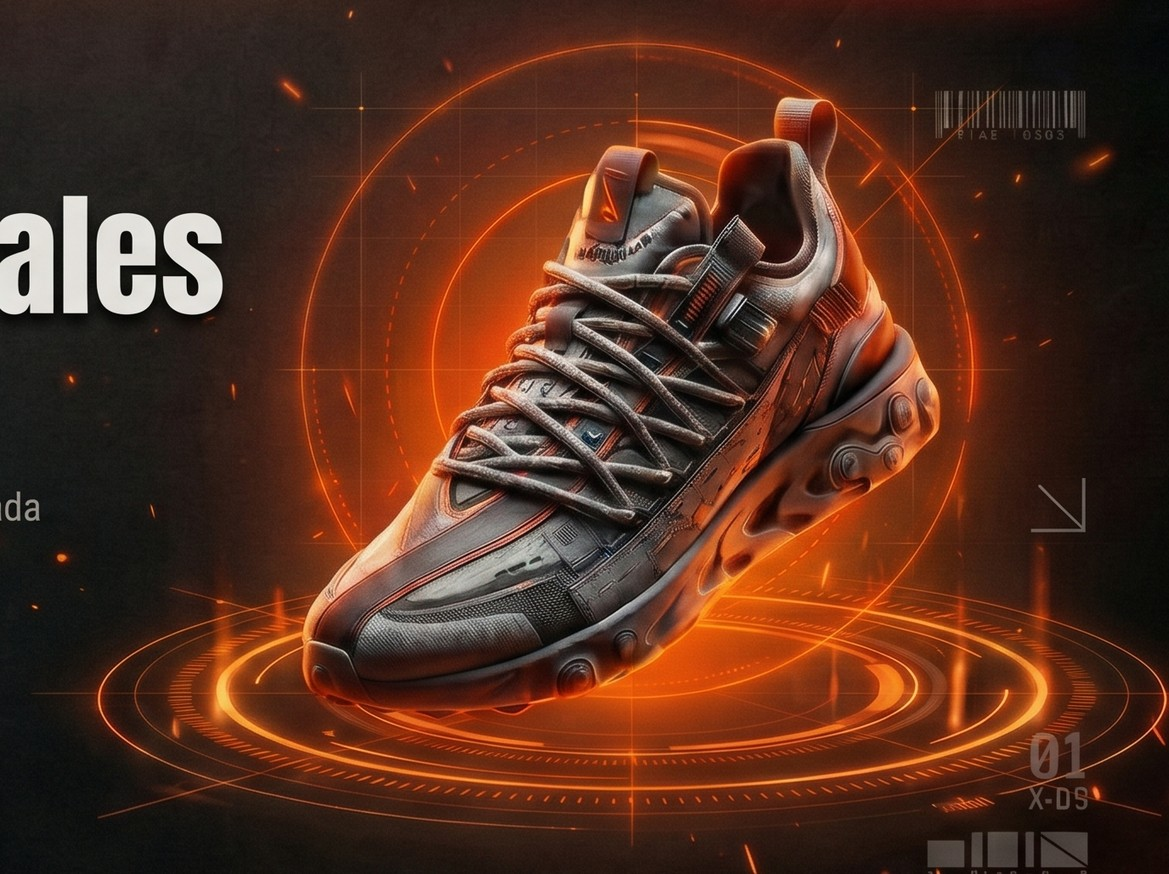
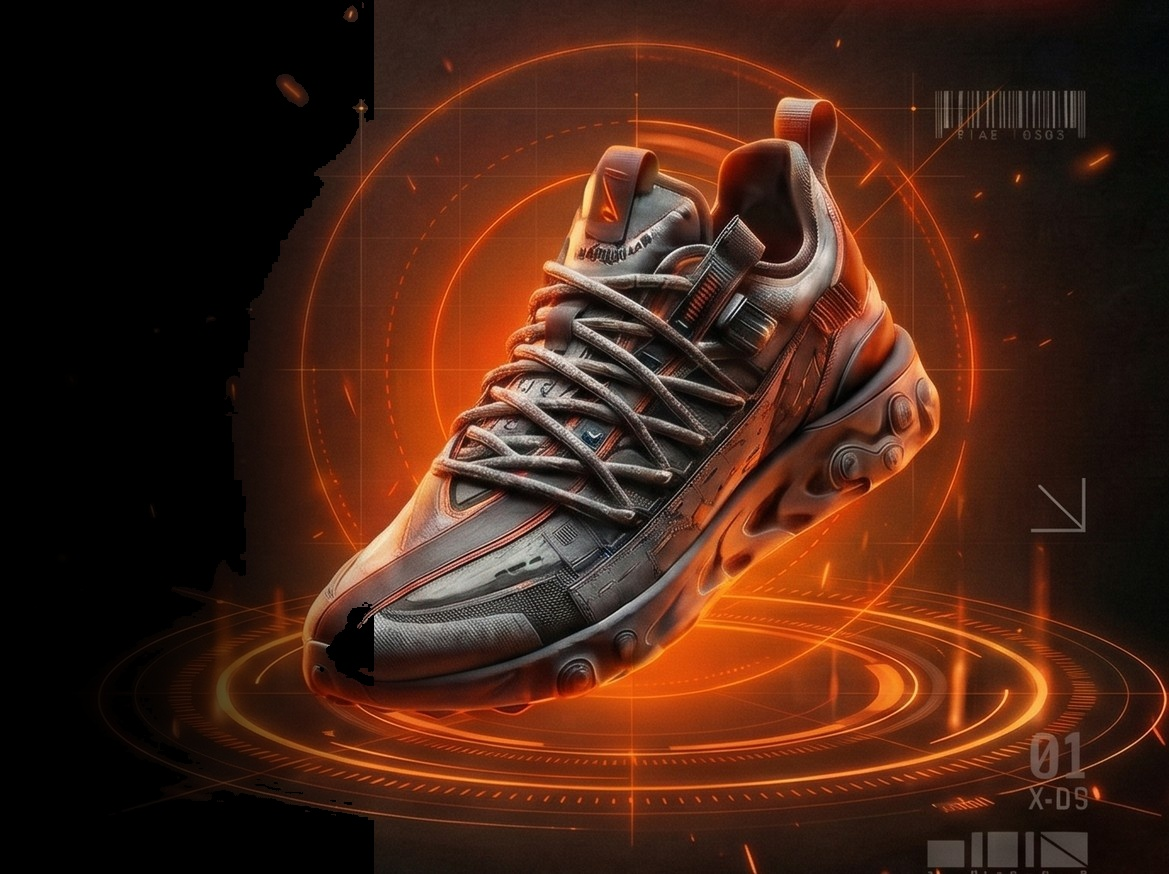
fix: corregir superposicion de header y calibrar fidelidad visual del hero

Changed region(s): [[0.0, 0.0, 0.3388, 1.0], [0.0, 0.6796, 0.0616, 0.7105]]

diff --git a/web/src/components/AboutSection.tsx b/web/src/components/AboutSection.tsx
@@ -1,7 +1,6 @@
 'use client';
 
 import React from 'react';
-import Image from 'next/image';
 
 interface AboutSectionProps {
   onExploreClick?: () => void;
@@ -11,10 +10,10 @@ interface AboutSectionProps {
 
 export const AboutSection: React.FC<AboutSectionProps> = ({
   onExploreClick,
-  totalProductos = 1897,
+  totalProductos = 1872,
 }) => {
   return (
-    <section className="hero-viewport relative select-none">
+    <section className="hero-viewport relative select-none h-screen min-h-[660px] max-h-[1080px] flex flex-col justify-between overflow-hidden p-[3.2vh_4vw] lg:p-[3.6vh_5.5vw]">
       {/* Bordes incandescentes */}
       <div className="left-burn-edge" aria-hidden="true" />
       <div className="right-burn-edge" aria-hidden="true" />
@@ -87,23 +86,21 @@ export const AboutSection: React.FC<AboutSectionProps> = ({
       </div>
 
       {/* Barra Superior con Insignia Metálica */}
-      <header className="relative z-10 flex flex-wrap items-center justify-between w-full px-2 sm:px-6 gap-4">
+      <header className="relative z-10 flex items-center justify-between w-full px-1 sm:px-4">
         {/* Insignia metálica LLANTITA */}
         <div className="brand-badge">
           <div className="cat-shield-wrapper">
-            <img src="/logo.jpg" alt="Escudo Gato Llantita" />
+            <img src="/cat-shield.jpg" alt="Escudo Gato Llantita" />
           </div>
           <span className="brand-title">LLANTITA</span>
-          <span className="rivet tl" />
           <span className="rivet tr" />
           <span className="rivet br" />
-          <span className="rivet bl" />
         </div>
 
         {/* Acciones superiores */}
         <div className="flex items-center gap-3 sm:gap-4">
           <div className="status-pill font-barlow tracking-wider">
-            {totalProductos > 0 ? `${totalProductos.toLocaleString('es-AR')} PARES ACTIVOS` : 'MONITOR ACTIVO'}
+            {totalProductos > 0 ? `${totalProductos.toLocaleString('es-AR')} PARES ACTIVOS` : '1.872 PARES ACTIVOS'}
           </div>
 
           <a
@@ -121,9 +118,9 @@ export const AboutSection: React.FC<AboutSectionProps> = ({
       </header>
 
       {/* Escenario Central */}
-      <div className="relative z-10 grid grid-cols-1 lg:grid-cols-[1.05fr_0.95fr] items-center w-full flex-1 px-2 sm:px-6 pt-6 lg:pt-0 gap-8">
+      <div className="relative z-10 grid grid-cols-1 lg:grid-cols-[1.05fr_0.95fr] items-center w-full flex-1 px-1 sm:px-4 py-2 sm:py-4 gap-4 sm:gap-6">
         {/* Columna Izquierda: Texto y Coordenadas */}
-        <div className="max-w-[680px]">
+        <div className="max-w-[640px] pt-1">
           {/* Eje de coordenadas X/Y HUD */}
           <div className="coord-axis">
             <svg width="46" height="48" viewBox="0 0 46 48" fill="none" xmlns="http://www.w3.org/2000/svg">
@@ -135,18 +132,18 @@ export const AboutSection: React.FC<AboutSectionProps> = ({
             </svg>
           </div>
 
-          <h1 className="font-anton text-4xl sm:text-6xl lg:text-[76px] leading-[1.01] tracking-[0.01em] text-[#e5e5e5] drop-shadow-[0_6px_24px_rgba(0,0,0,0.85)] mb-5">
+          <h1 className="font-anton text-4xl sm:text-6xl lg:text-[clamp(3.2rem,5.5vw,5.4rem)] leading-[1.01] tracking-[0.01em] text-[#e5e5e5] drop-shadow-[0_6px_24px_rgba(0,0,0,0.85)] mb-4">
             Descuentos reales<br />en zapatillas
           </h1>
 
-          <p className="font-sans text-base sm:text-lg lg:text-xl text-[#969696] max-w-[560px] leading-relaxed mb-8">
+          <p className="font-sans text-sm sm:text-base lg:text-[clamp(0.95rem,1.3vw,1.2rem)] text-[#969696] max-w-[520px] leading-relaxed mb-6">
             Monitoreamos bajas de precio y stock en Sporting cada 30 minutos para que compres en su piso histórico.
           </p>
 
           {onExploreClick && (
             <button
               onClick={onExploreClick}
-              className="inline-flex items-center gap-3 px-6 py-3.5 rounded-md bg-[#1d1916] hover:bg-[#26211d] border border-[#5c4737] hover:border-[#ff6a1a] text-[#f2ede7] hover:text-white font-barlow font-bold text-lg tracking-wider uppercase transition-[border-color,background-color,transform] active:scale-[0.98] cursor-pointer shadow-[0_4px_16px_rgba(0,0,0,0.6)]"
+              className="inline-flex items-center gap-3 px-5 py-3 rounded-md bg-[#1d1916] hover:bg-[#26211d] border border-[#5c4737] hover:border-[#ff6a1a] text-[#f2ede7] hover:text-white font-barlow font-bold text-base tracking-wider uppercase transition-all active:scale-[0.98] cursor-pointer shadow-[0_4px_16px_rgba(0,0,0,0.6)]"
             >
               <span>EXPLORAR CATÁLOGO</span>
               <svg className="w-4 h-4 text-[#ff6a1a]" viewBox="0 0 24 24" fill="none" stroke="currentColor" strokeWidth="2.5" strokeLinecap="round" strokeLinejoin="round">
@@ -157,41 +154,32 @@ export const AboutSection: React.FC<AboutSectionProps> = ({
         </div>
 
         {/* Columna Derecha: Zapatilla Holográfica + Elementos Técnicos HUD */}
-        <div className="relative flex items-center justify-center w-full">
-          <div className="relative w-full max-w-[680px] aspect-[1.18/1] flex items-center justify-center">
+        <div className="sneaker-showcase">
+          <div className="sneaker-holo-container">
             {/* Código de barras superior derecho */}
-            <div className="absolute top-[6%] right-[5%] flex flex-col items-center opacity-45 pointer-events-none">
+            <div className="hud-barcode-top-right">
               <div className="barcode-bars">
                 <span style={{ width: 2 }} /><span style={{ width: 1 }} /><span style={{ width: 3 }} /><span style={{ width: 1 }} /><span style={{ width: 2 }} /><span style={{ width: 4 }} /><span style={{ width: 1 }} /><span style={{ width: 2 }} /><span style={{ width: 1 }} /><span style={{ width: 3 }} /><span style={{ width: 2 }} /><span style={{ width: 1 }} /><span style={{ width: 2 }} /><span style={{ width: 3 }} /><span style={{ width: 1 }} /><span style={{ width: 2 }} /><span style={{ width: 1 }} /><span style={{ width: 3 }} />
               </div>
               <div className="barcode-label">21AE 10S03</div>
             </div>
 
-            {/* Imagen de la zapatilla holográfica */}
-            <div className="relative w-full h-full flex items-center justify-center">
-              <Image
-                src="/hero-sneaker.jpg"
-                alt="Zapatilla deportiva holográfica Llantita"
-                width={700}
-                height={600}
-                priority
-                className="w-[105%] h-[105%] object-contain mix-blend-lighten pointer-events-none drop-shadow-[0_15px_35px_rgba(255,85,0,0.2)]"
-                style={{
-                  maskImage: 'radial-gradient(ellipse 54% 52% at 50% 50%, #000 68%, rgba(0,0,0,0.4) 85%, transparent 100%)',
-                  WebkitMaskImage: 'radial-gradient(ellipse 54% 52% at 50% 50%, #000 68%, rgba(0,0,0,0.4) 85%, transparent 100%)',
-                }}
-              />
-            </div>
+            {/* Imagen de la zapatilla holográfica limpia */}
+            <img
+              src="/hero-sneaker.jpg"
+              alt="Zapatilla deportiva holográfica Llantita"
+              className="sneaker-holo-img"
+            />
 
             {/* Flecha diagonal HUD derecha */}
-            <svg className="absolute right-[6%] top-[51%] w-[26px] h-[26px] opacity-45 pointer-events-none" viewBox="0 0 28 28" fill="none" xmlns="http://www.w3.org/2000/svg">
+            <svg className="hud-corner-arrow" viewBox="0 0 28 28" fill="none" xmlns="http://www.w3.org/2000/svg">
               <path d="M2 2L25 25M25 25V4M25 25H4" stroke="#8d8883" strokeWidth="1.5"/>
             </svg>
 
             {/* Metadatos inferiores derechos (01 / X-DS) */}
             <div className="hud-bottom-right-meta">
               <div className="num-code font-mono text-2xl text-[#b8aba0] tracking-wider leading-none">01</div>
-              <div className="sub-code font-mono text-xs text-[#8c857e] tracking-[0.14em] mt-1 mb-2.5">X-DS</div>
+              <div className="sub-code font-mono text-xs text-[#8c857e] tracking-[0.14em] mt-1 mb-2">X-DS</div>
               <div className="hud-data-blocks">
                 <span style={{ width: 7, height: 14 }} />
                 <span style={{ width: 3, height: 18 }} />
@@ -206,7 +194,7 @@ export const AboutSection: React.FC<AboutSectionProps> = ({
       </div>
 
       {/* Código de barras inferior izquierdo */}
-      <div className="relative z-10 px-2 sm:px-6 mb-2 inline-flex flex-col items-start opacity-45 pointer-events-none">
+      <div className="hud-barcode-bottom-left">
         <div className="barcode-bars">
           <span style={{ width: 1 }} /><span style={{ width: 3 }} /><span style={{ width: 1 }} /><span style={{ width: 2 }} /><span style={{ width: 1 }} /><span style={{ width: 4 }} /><span style={{ width: 2 }} /><span style={{ width: 1 }} /><span style={{ width: 3 }} /><span style={{ width: 1 }} /><span style={{ width: 2 }} /><span style={{ width: 3 }} /><span style={{ width: 1 }} /><span style={{ width: 2 }} /><span style={{ width: 4 }} /><span style={{ width: 1 }} /><span style={{ width: 3 }} /><span style={{ width: 1 }} />
         </div>

diff --git a/web/src/app/globals.css b/web/src/app/globals.css
@@ -129,7 +129,7 @@ p {
   top: 0;
   bottom: 0;
   left: 0;
-  width: 24px;
+  width: 28px;
   background: linear-gradient(90deg, 
     #ff3b00 0%, 
     #ff7b00 18%, 
@@ -207,8 +207,8 @@ p {
   background: linear-gradient(180deg, #2a2c28 0%, #1b1c19 55%, #121311 100%);
   border: 2px solid #575951;
   border-radius: 6px;
-  height: 64px;
-  padding: 0 18px 0 76px;
+  height: 76px;
+  padding: 0 22px 0 92px;
   box-shadow: 
     0 10px 25px rgba(0,0,0,0.85),
     inset 0 1px 1px rgba(255,255,255,0.22),
@@ -232,18 +232,18 @@ p {
   background: radial-gradient(circle at 35% 35%, #8c9084, #2b2d28);
   box-shadow: 0 1px 2px rgba(0,0,0,0.9);
 }
-.rivet.tr { top: 6px; right: 6px; }
-.rivet.br { bottom: 6px; right: 6px; }
-.rivet.tl { top: 6px; left: 6px; }
-.rivet.bl { bottom: 6px; left: 6px; }
+.rivet.tr { top: 8px; right: 8px; }
+.rivet.br { bottom: 8px; right: 8px; }
+.rivet.tl { top: 8px; left: 8px; }
+.rivet.bl { bottom: 8px; left: 8px; }
 
 .cat-shield-wrapper {
   position: absolute;
-  left: -4px;
+  left: -6px;
   top: 50%;
   transform: translateY(-48%);
-  width: 72px;
-  height: 88px;
+  width: 86px;
+  height: 104px;
   filter: drop-shadow(0 6px 12px rgba(0,0,0,0.85));
   overflow: hidden;
   clip-path: polygon(12% 0%, 88% 0%, 100% 10%, 100% 74%, 50% 100%, 0% 74%, 0% 10%);
@@ -380,6 +380,67 @@ p {
 .hud-data-blocks span {
   display: inline-block;
   background: #8c857e;
+}
+
+/* Columna derecha: Zapatilla y proyección holográfica */
+.sneaker-showcase {
+  position: relative;
+  display: flex;
+  align-items: center;
+  justify-content: center;
+  width: 100%;
+  height: 100%;
+}
+
+.sneaker-holo-container {
+  position: relative;
+  width: min(100%, 720px);
+  aspect-ratio: 1.15 / 1;
+  display: flex;
+  align-items: center;
+  justify-content: center;
+}
+
+.sneaker-holo-img {
+  width: 108%;
+  height: 108%;
+  object-fit: contain;
+  mix-blend-mode: lighten;
+  -webkit-mask-image: radial-gradient(ellipse 52% 50% at 50% 50%, #000 68%, rgba(0,0,0,0.4) 85%, transparent 100%);
+  mask-image: radial-gradient(ellipse 52% 50% at 50% 50%, #000 68%, rgba(0,0,0,0.4) 85%, transparent 100%);
+  pointer-events: none;
+}
+
+.hud-barcode-top-right {
+  position: absolute;
+  top: 6%;
+  right: 5%;
+  display: flex;
+  flex-direction: column;
+  align-items: center;
+  opacity: 0.42;
+  pointer-events: none;
+}
+
+.hud-barcode-bottom-left {
+  position: relative;
+  z-index: 8;
+  margin-left: 2.8vw;
+  margin-bottom: 2.2vh;
+  display: inline-flex;
+  flex-direction: column;
+  align-items: flex-start;
+  opacity: 0.42;
+}
+
+.hud-corner-arrow {
+  position: absolute;
+  right: 6%;
+  top: 51%;
+  width: 26px;
+  height: 26px;
+  opacity: 0.45;
+  pointer-events: none;
 }
 
 /* Tarjeta Mech Industrial */

diff --git a/web/src/components/Navbar.tsx b/web/src/components/Navbar.tsx
@@ -14,7 +14,8 @@ export const Navbar: React.FC<NavbarProps> = ({ ultimaActualizacion, totalProduc
 
   useEffect(() => {
     const handleScroll = () => {
-      setScrolled(window.scrollY > 400);
+      // Aparece únicamente cuando el usuario se desplaza más de 250px hacia el catálogo
+      setScrolled(window.scrollY > 250);
     };
     window.addEventListener('scroll', handleScroll, { passive: true });
     return () => window.removeEventListener('scroll', handleScroll);
@@ -22,10 +23,10 @@ export const Navbar: React.FC<NavbarProps> = ({ ultimaActualizacion, totalProduc
 
   return (
     <header
-      className={`sticky top-0 z-40 w-full transition-[background-color,border-color,backdrop-filter] duration-200 ${
+      className={`fixed top-0 left-0 right-0 z-50 w-full transition-all duration-200 ease-out ${
         scrolled
-          ? 'bg-[#12100e]/90 backdrop-blur-md border-b border-[#3d3328] shadow-[0_4px_24px_rgba(0,0,0,0.8)]'
-          : 'bg-transparent border-b border-transparent'
+          ? 'opacity-100 translate-y-0 pointer-events-auto bg-[#12100e]/95 backdrop-blur-md border-b border-[#3d3328] shadow-[0_4px_24px_rgba(0,0,0,0.85)]'
+          : 'opacity-0 -translate-y-full pointer-events-none border-b border-transparent'
       }`}
     >
       <div className="mx-auto flex max-w-7xl items-center justify-between px-3 py-2.5 sm:px-6">
@@ -33,7 +34,7 @@ export const Navbar: React.FC<NavbarProps> = ({ ultimaActualizacion, totalProduc
         <div className="flex items-center gap-3">
           <div className="h-9 w-9 rounded overflow-hidden bg-[#1f1b17] border border-[#544738] shrink-0 p-0.5 shadow-sm">
             <img
-              src="/logo.jpg"
+              src="/cat-shield.jpg"
               alt="Llantita"
               className="h-full w-full object-cover rounded-sm"
             />
